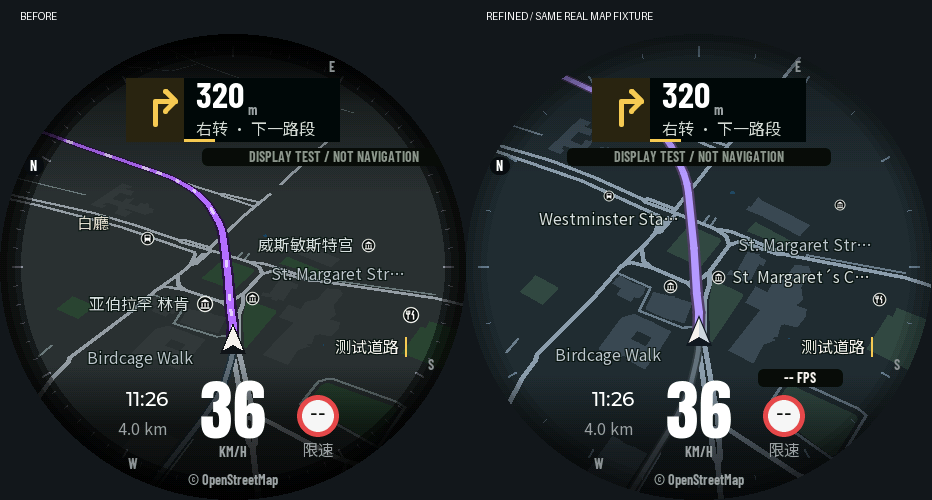
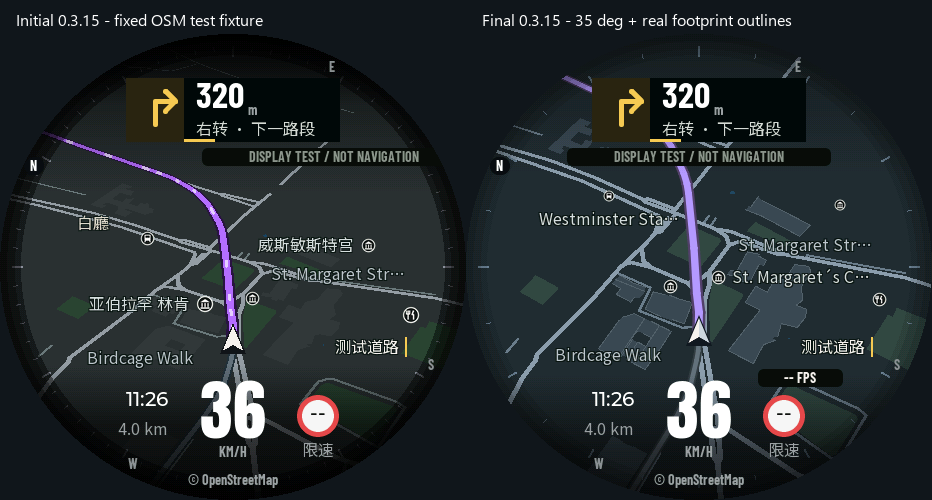
Recover real building outlines and courtyards for the navigation map

Changed region(s): [[0.4979, 0.03, 0.8401, 0.06], [0.0, 0.0, 0.28, 0.06], [0.6845, 0.63, 0.7157, 0.66]]

diff --git a/moto_esp32/components/motonav_graphics/route_map.cpp b/moto_esp32/components/motonav_graphics/route_map.cpp
@@ -2,6 +2,7 @@
 #include "motonav/graphics/map_raster.h"
 #include "motonav/graphics/map_stroke.h"
 #include "motonav/graphics/map_strip_index.h"
+#include "motonav/graphics/building_contours.h"
 #include "round_map_damage.h"
 #include "src/draw/lv_image_decoder_private.h"
 #include "src/draw/lv_draw_private.h"
@@ -44,6 +45,11 @@ struct MapScene {
     uint16_t area_count=0,surface_count=0,edge_count=0;
     uint16_t paint_order[384]{};
     MapStripIndex strips;
+    BuildingContours building_contours;
+    uint64_t feature_version=0;
+    size_t input_feature_count=0;
+    Segment building_edges[256]{};
+    size_t building_edge_count=0;
     size_t feature_count=0;
     bool compass=false;
     size_t road_count = 0, route_count = 0;
@@ -108,6 +114,12 @@ void paint(MapRaster &raster, MapScene &scene, int top, int bottom) {
     const uint64_t begin = scene.clock_us ? scene.clock_us() : 0;
     raster.navigation_style(scene.compass);
     raster.clear(panel_color(Style::Ground));
+    bool contours_painted=false;
+    auto contours=[&](){
+        if(contours_painted)return;
+        for(size_t i=0;i<scene.building_edge_count;i++)line(raster,scene.building_edges[i],1,Style::BuildingEdge,top,bottom);
+        contours_painted=true;
+    };
     // Resolve painter order and bounds once per camera update. Each strip visits
     // the compact list once, instead of scanning all PSRAM geometry six times.
     for(size_t block=0;block<(scene.feature_count+31)/32;block++) {
@@ -119,11 +131,13 @@ void paint(MapRaster &raster, MapScene &scene, int top, int bottom) {
         const unsigned kind=f.kind;
         if(kind>=3)raster.polygon(scene.areas[f.shape],panel_color(kind==4?Style::Water:kind==5?Style::Park:Style::Building));
         else {
+            contours(); // Above every building fill, below every road surface.
             if(kind==2)scene.edges[f.edge].paint(raster,panel_color(Style::RoadEdge));
             scene.surfaces[f.shape].paint(raster,panel_color(kind==2?Style::MajorRoad:kind==1?Style::SecondaryRoad:Style::MinorRoad));
         }
       }
     }
+    contours();
     for (size_t i=0; i<scene.road_count; ++i) {
         line(raster, scene.roads[i], 8, 0x10191e, top, bottom);
         line(raster, scene.roads[i], 4, 0x66757c, top, bottom);
@@ -305,6 +319,10 @@ bool render_route_map(lv_obj_t *view, const MapCamera &camera, const MapGeometry
     if (!scene) return false;
     MapProjection projection(scene->image.header.w, scene->image.header.h, camera);
     if (!projection.valid()) return false;
+    if(!geometry.feature_version||scene->feature_version!=geometry.feature_version||scene->input_feature_count!=geometry.feature_count){
+        scene->building_contours.prepare(geometry.features,geometry.feature_count);
+        scene->feature_version=geometry.feature_version;scene->input_feature_count=geometry.feature_count;
+    }
     scene->road_count = scene->route_count = 0;
     scene->show_position=geometry.show_position;
     scene->position_style=geometry.position_style;
@@ -312,6 +330,14 @@ bool render_route_map(lv_obj_t *view, const MapCamera &camera, const MapGeometry
     scene->area_count=scene->surface_count=scene->edge_count=0;
     scene->feature_count=0;scene->compass=geometry.compass;
     ProjectedPoint a, b;
+    scene->building_edge_count=0;
+    for(size_t i=0;i<scene->building_contours.count()&&scene->building_edge_count<256;i++){
+        const auto edge=scene->building_contours.edge(i);
+        if(!projection.segment(edge.a,edge.b,a,b,2))continue;
+        float dx=b.x-a.x,dy=b.y-a.y;
+        if(dx*dx+dy*dy<36||std::max(a.y,b.y)<140||std::min(a.y,b.y)>345)continue;
+        scene->building_edges[scene->building_edge_count++]=Segment(a,b);
+    }
     for(size_t i=0;i<geometry.feature_count;i++) {
         const auto &f=geometry.features[i];MapScene::Feature next;next.kind=f.kind;
         if(f.kind<3) {

diff --git a/moto_esp32/tests/lvgl_host/preview.cpp b/moto_esp32/tests/lvgl_host/preview.cpp
@@ -253,6 +253,24 @@ static void exercise_route_split(lv_display_t *display,const std::filesystem::pa
     lv_screen_load(previous);lv_obj_delete(screen);
     std::cout<<"PASS: passed/future route rendering, unknown progress and maximum split capacity\n";
 }
+static void exercise_building_edges(lv_display_t *display,const std::filesystem::path &directory) {
+    auto *previous=lv_screen_active(),*screen=lv_obj_create(nullptr);lv_screen_load(screen);
+    auto *map=motonav::create_route_map(screen,466,466);
+    motonav::MapFeature features[]{{3,{0,0},{50,0},{50,50}},{3,{0,0},{50,50},{0,50}}};
+    motonav::MapGeometry geometry{nullptr,0,nullptr,0,false,features,2};geometry.feature_version=1;
+    const motonav::MapCamera camera{0,0,0,1};
+    assert(motonav::render_route_map(map,camera,geometry));save(display,directory/"building-contour.ppm");
+    auto inside=pixels[300*466+259];assert(pixels[301*466+258]==inside); // No tessellation diagonal.
+    auto outline=pixels[300*466+233];assert(outline!=inside);
+    features[0].b.x=features[0].c.x=features[1].b.x=60;geometry.feature_version++;
+    assert(motonav::render_route_map(map,camera,geometry));save(display,directory/"building-contour-updated.ppm");
+    assert(pixels[300*466+283]==inside&&pixels[300*466+293]==outline);
+    geometry.features=nullptr;geometry.feature_count=0;geometry.feature_version++;
+    assert(motonav::render_route_map(map,camera,geometry));save(display,directory/"building-contour-cleared.ppm");
+    assert(pixels[300*466+233]!=outline);
+    lv_screen_load(previous);lv_obj_delete(screen);
+    std::cout<<"PASS: contour cache update, no triangle seams and removed-map cleanup\n";
+}
 int main(int argc, char **argv) {
     if (argc != 2) return 2;
     std::filesystem::path directory(argv[1]); std::filesystem::create_directories(directory);
@@ -327,6 +345,7 @@ int main(int argc, char **argv) {
     exercise_annotations(display,directory);
     exercise_maneuver_ui(display,directory);
     exercise_route_split(display,directory);
+    exercise_building_edges(display,directory);
     auto *navigation_screen = lv_screen_active();
     auto normal_children = lv_obj_get_child_count(lv_screen_active());
     lv_obj_add_event_cb(lv_obj_get_child(lv_screen_active(),0), [](lv_event_t *) { ++rim_draws; }, LV_EVENT_DRAW_MAIN, nullptr);

diff --git a/moto_esp32/components/motonav_graphics/include/motonav/graphics/building_contours.h b/moto_esp32/components/motonav_graphics/include/motonav/graphics/building_contours.h
@@ -1,0 +1,50 @@
+#pragma once
+#include "motonav/graphics/map_feature.h"
+#include <algorithm>
+
+namespace motonav {
+// Recover the supplied footprint boundaries by cancelling oriented shared
+// triangle edges. Winding normalization keeps duplicate/reversed triangles
+// from erasing the outside, and retains courtyard boundaries. No new geometry.
+class BuildingContours {
+public:
+    static constexpr size_t Capacity=384*3;
+    bool prepare(const MapFeature *features,size_t count) {
+        if(count>384||(count&&!features))return false;
+        for(size_t i=0;i<count;i++)if(features[i].kind==3)
+            for(auto p:{features[i].a,features[i].b,features[i].c})
+                if(std::abs(int(p.x))>2048||std::abs(int(p.y))>2048)return false;
+        size_t used=0;
+        auto point=[](MapPoint p){return (uint32_t(int(p.x)+2048)<<13)|uint32_t(int(p.y)+2048);};
+        auto edge=[&](MapPoint a,MapPoint b){
+            uint32_t x=point(a),y=point(b);if(x==y)return;
+            // 13 bits per coordinate; one spare low bit records orientation.
+            keys_[used++]=((uint64_t(std::min(x,y))<<26)|std::max(x,y))<<1|(x<y?1u:0u);
+        };
+        for(size_t i=0;i<count;i++)if(features[i].kind==3) {
+            auto a=features[i].a,b=features[i].b,c=features[i].c;
+            int32_t area=(int32_t(b.x)-a.x)*(int32_t(c.y)-a.y)-(int32_t(b.y)-a.y)*(int32_t(c.x)-a.x);
+            if(!area)continue;
+            if(area<0)std::swap(b,c);
+            edge(a,b);edge(b,c);edge(c,a);
+        }
+        std::sort(keys_,keys_+used);count_=0;
+        for(size_t i=0;i<used;) {
+            const auto key=keys_[i]>>1;unsigned orientations=0;
+            do{orientations|=(keys_[i]&1)?1u:2u;i++;}while(i<used&&(keys_[i]>>1)==key);
+            if(orientations!=3)keys_[count_++]=key;
+        }
+        return true;
+    }
+    size_t count()const{return count_;}
+    MapSegment edge(size_t index)const {
+        if(index>=count_)return {};
+        auto point=[](uint32_t value){return MapPoint{static_cast<int16_t>(int(value>>13)-2048),
+            static_cast<int16_t>(int(value&8191)-2048)};};
+        return {point(static_cast<uint32_t>(keys_[index]>>26)),point(static_cast<uint32_t>(keys_[index]&0x3ffffff))};
+    }
+private:
+    uint64_t keys_[Capacity]{};
+    size_t count_=0;
+};
+}

diff --git a/moto_esp32/tests/host/building_contours_test.cpp b/moto_esp32/tests/host/building_contours_test.cpp
@@ -1,0 +1,32 @@
+#include "motonav/graphics/building_contours.h"
+#include <cassert>
+#include <iostream>
+using namespace motonav;
+int main(){
+    BuildingContours contours;
+    MapFeature square[]{{3,{0,0},{100,0},{100,100}},{3,{0,0},{0,100},{100,100}}};
+    assert(contours.prepare(square,2)&&contours.count()==4);
+    for(size_t i=0;i<contours.count();i++){auto e=contours.edge(i);assert(e.a.x==e.b.x||e.a.y==e.b.y);}
+    MapFeature duplicates[]{square[0],square[1],square[0]};
+    assert(contours.prepare(duplicates,3)&&contours.count()==4);
+    const MapPoint a{0,0},b{120,0},c{120,120},d{0,120};
+    const MapPoint e{40,40},f{80,40},g{80,80},h{40,80};
+    MapFeature courtyard[]{{3,a,b,f},{3,a,f,e},{3,b,c,g},{3,b,g,f},
+        {3,c,d,h},{3,c,h,g},{3,d,a,e},{3,d,e,h}};
+    assert(contours.prepare(courtyard,8)&&contours.count()==8);
+    unsigned inner=0;for(size_t i=0;i<contours.count();i++){
+        auto edge=contours.edge(i);if(edge.a.x>=40&&edge.a.x<=80&&edge.a.y>=40&&edge.a.y<=80)inner++;
+    }assert(inner==4);
+    MapFeature mixed[]{{4,{0,0},{10,0},{10,10}},{3,{0,0},{10,10},{20,20}}};
+    assert(contours.prepare(mixed,2)&&!contours.count());
+    MapFeature maximum[384];
+    for(int i=0;i<384;i++){
+        int16_t x=static_cast<int16_t>(i%24*70-1000),y=static_cast<int16_t>(i/24*100-750);
+        maximum[i]={3,{x,y},{static_cast<int16_t>(x+20),y},{x,static_cast<int16_t>(y+20)}};
+    }
+    assert(contours.prepare(maximum,384)&&contours.count()==BuildingContours::Capacity);
+    assert(!contours.prepare(maximum,385)&&contours.count()==BuildingContours::Capacity);
+    maximum[0].a.x=3000;assert(!contours.prepare(maximum,384));
+    assert(contours.prepare(nullptr,0)&&!contours.count());
+    std::cout<<"PASS: real footprint boundaries, shared diagonals, duplicates, winding, courtyards and limits\n";
+}

diff --git a/moto_esp32/tests/run_host_tests.py b/moto_esp32/tests/run_host_tests.py
@@ -74,7 +74,7 @@ with tempfile.TemporaryDirectory(prefix='motonav-firmware-tests-') as directory:
         'display_runtime_test': ['components/motonav_display/display.cpp', 'components/motonav_display/pixel_pack.cpp',
                                  'main/app/device_supervisor.cpp'],
     }
-    for name in ['map_camera_motion_test', 'navigation_presentation_test', 'map_strip_index_test', 'map_labels_test', 'map_position_test', 'navigation_details_test', 'basemap_protocol_test', 'navigation_protocol_test', 'route_protocol_test', 'ble_channel_test', 'display_model_test', 'map_projection_test', 'map_raster_test', 'map_stroke_test',
+    for name in ['building_contours_test', 'map_camera_motion_test', 'navigation_presentation_test', 'map_strip_index_test', 'map_labels_test', 'map_position_test', 'navigation_details_test', 'basemap_protocol_test', 'navigation_protocol_test', 'route_protocol_test', 'ble_channel_test', 'display_model_test', 'map_projection_test', 'map_raster_test', 'map_stroke_test',
                  'navigation_session_test', 'display_qspi_test', 'pixel_pack_test',
                  'navigation_service_test', 'notification_queue_test', 'ble_transport_test', 'display_runtime_test', 'diagnostic_protocol_test', 'diagnostic_bridge_test']:
         executable = output / (name + ('.exe' if os.name == 'nt' else ''))

diff --git a/moto_esp32/components/motonav_graphics/include/motonav/graphics/map_raster.h b/moto_esp32/components/motonav_graphics/include/motonav/graphics/map_raster.h
@@ -204,9 +204,9 @@ private:
         if(cached_shades_&&cached_color_==color)return {color,cached_shades_};
         constexpr auto palette=NavigationMapStyle::Palette;
         static constexpr auto table=[] {
-            std::array<std::array<uint32_t,514>,18> result{};
+            std::array<std::array<uint32_t,514>,NavigationMapStyle::Palette.size()> result{};
             constexpr auto rgb=NavigationMapStyle::Palette;
-            for(unsigned c=0;c<18;c++)for(unsigned light=0;light<=256;light++)for(unsigned row=0;row<2;row++){
+            for(unsigned c=0;c<rgb.size();c++)for(unsigned light=0;light<=256;light++)for(unsigned row=0;row<2;row++){
                 const unsigned packed=((rgb[c]>>8)&0xf800)|((rgb[c]>>5)&0x7e0)|((rgb[c]>>3)&31);
                 uint32_t pair=0;
                 for(unsigned column=0;column<2;column++){
@@ -220,7 +220,7 @@ private:
             }
             return result;
         }();
-        for(unsigned i=0;i<18;i++){
+        for(unsigned i=0;i<palette.size();i++){
             const auto rgb565=rgb(palette[i]);
             if(color==static_cast<uint16_t>((rgb565>>8)|(rgb565<<8))){cached_color_=color;cached_shades_=table[i].data();return {color,cached_shades_};}
         }

diff --git a/moto_esp32/components/motonav_graphics/include/motonav/graphics/map_style.h b/moto_esp32/components/motonav_graphics/include/motonav/graphics/map_style.h
@@ -10,7 +10,8 @@ struct NavigationMapStyle {
     static constexpr uint32_t RoadEdge=0x33444f,MajorRoad=0xb7c1c8,SecondaryRoad=0x8d9ea8,MinorRoad=0x687d88;
     static constexpr uint32_t Route=0xb79aff,RouteEdge=0x51416c,Passed=0x61727c,PassedEdge=0x303d46;
     static constexpr uint32_t PlayerEdge=0x101a22,Player=0xf2f3e9,PlayerSide=0xc8d5df,Compass=0x6e8390;
-    static constexpr std::array<uint32_t,18> Palette{Ground,Water,Park,Building,RoadEdge,MajorRoad,
-        SecondaryRoad,MinorRoad,0x10191e,0x66757c,Route,RouteEdge,PlayerEdge,Player,PlayerSide,Compass,Passed,PassedEdge};
+    static constexpr uint32_t BuildingEdge=0x53616b;
+    static constexpr std::array<uint32_t,19> Palette{Ground,Water,Park,Building,RoadEdge,MajorRoad,
+        SecondaryRoad,MinorRoad,0x10191e,0x66757c,Route,RouteEdge,PlayerEdge,Player,PlayerSide,Compass,Passed,PassedEdge,BuildingEdge};
 };
 }

diff --git a/moto_esp32/components/motonav_graphics/include/motonav/graphics/route_map.h b/moto_esp32/components/motonav_graphics/include/motonav/graphics/route_map.h
@@ -1,9 +1,9 @@
 #pragma once
 #include "motonav/graphics/map_projection.h"
+#include "motonav/graphics/map_feature.h"
 #include "lvgl.h"
 
 namespace motonav {
-struct MapFeature { uint8_t kind;MapPoint a,b,c; };
 struct MapGeometry {
     const MapPoint *route;
     size_t route_count;
@@ -17,6 +17,9 @@ struct MapGeometry {
     // Optional visual split: segment index + fraction, -1 means unknown.
     // The caller owns position validity; this does not change guidance/progress.
     float route_progress=-1;
+    // Optional stable content key for features. Change on ANY geometry change;
+    // zero rebuilds the derived contour cache on every call. No pointer retained.
+    uint64_t feature_version=0;
 };
 // All functions below require the LVGL thread or the caller's display lock.
 // Image owns a bounded scene; fallback decoding lazily allocates a strip buffer.

diff --git a/moto_esp32/tests/device/motonav_bench/map_fixture.cpp b/moto_esp32/tests/device/motonav_bench/map_fixture.cpp
@@ -29,7 +29,7 @@ MapCamera render_map_benchmark(lv_obj_t *view, uint64_t elapsed_ms) {
     static const RouteTrace trace=[] {RouteTrace value;value.prepare(RealMapRoute,sizeof(RealMapRoute)/sizeof(RealMapRoute[0]));return value;}();
     auto progress=trace.locate(camera.x,camera.y);
     render_route_map(view,camera,{RealMapRoute,sizeof(RealMapRoute)/sizeof(RealMapRoute[0]),nullptr,0,true,
-        RealMapFeatures,sizeof(RealMapFeatures)/sizeof(RealMapFeatures[0]),true,0,progress.valid?progress.index:-1});
+        RealMapFeatures,sizeof(RealMapFeatures)/sizeof(RealMapFeatures[0]),true,0,progress.valid?progress.index:-1,1});
     return camera;
 }
 } // namespace motonav

diff --git a/moto_esp32/components/motonav_ui/navigation_ui.cpp b/moto_esp32/components/motonav_ui/navigation_ui.cpp
@@ -133,7 +133,8 @@ void route_map(const ScreenSnapshot &state,ManeuverEmphasis emphasis) {
     camera=next;
     if(changed) {
         if(!render_route_map(map_view,camera,{points,r.count,nullptr,0,marker!=0,features,basemap.count,r.local_view,
-                static_cast<uint8_t>(live?0:historical?3:r.position_quality),progress.valid?progress.index:-1})) {
+                static_cast<uint8_t>(live?0:historical?3:r.position_quality),progress.valid?progress.index:-1,
+                (uint64_t(r.revision)<<32)|basemap.generation})) {
             lv_obj_delete(map_view); map_view=nullptr;annotations={}; map_failed=true; layout(false);
         }
     }

diff --git a/moto_esp32/components/motonav_graphics/include/motonav/graphics/map_feature.h b/moto_esp32/components/motonav_graphics/include/motonav/graphics/map_feature.h
@@ -1,0 +1,5 @@
+#pragma once
+#include "motonav/graphics/map_projection.h"
+namespace motonav {
+struct MapFeature { uint8_t kind;MapPoint a,b,c; };
+}

diff --git a/protocol/navigation-experience-0.3.15-validation.md b/protocol/navigation-experience-0.3.15-validation.md
@@ -60,7 +60,7 @@ phone's older 50-degree viewport plus its 120 m coverage margin.
 
 ## Validation
 
-- 23 host C++ programs and dependency checks pass. Added coverage includes
+- 24 host C++ programs and dependency checks pass. Added coverage includes
   independent motion channels, route bends, close parallel legs/crossings,
   clock wrapping, invalid/expired guidance, camera coverage and strip masks.
 - Analytic fractional-rectangle tests verify edge color blending. Antialiased
@@ -78,27 +78,73 @@ geographic fixture, draw-task profiling disabled. Each timed interval follows
 a 2.5 s warm-up. The final perspective/style differs, so this is not an isolated
 microbenchmark of the strip index.
 
-| Measurement | 0.3.14 | First 0.3.15 | Final refined 0.3.15 |
-| --- | ---: | ---: | ---: |
-| Minimum / mean sampled FPS | 21 / 23 | 21 / 24 | 19 / 23 |
-| Timed interval (ms) | 40528 | 40533 | 40544 |
-| Prepare mean (us) | 5147 | 5488 | 5017 |
-| Geometry / annotations / HUD (us) | 4402 / 470 / 274 | 4660 / 533 / 294 | 4139 / 570 / 307 |
-| Render mean (us) | 34757 | 33509 | 35164 |
-| Overlapping DMA mean (us) | 19617 | 19616 | 19629 |
+| Measurement | 0.3.14 | First 0.3.15 | Refined 35-degree view | Final with building contours |
+| --- | ---: | ---: | ---: | ---: |
+| Minimum / mean sampled FPS | 21 / 23 | 21 / 24 | 19 / 23 | 19 / 22 |
+| Timed interval (ms) | 40528 | 40533 | 40544 | 40552 |
+| Prepare mean (us) | 5147 | 5488 | 5017 | 5619 |
+| Geometry / annotations / HUD (us) | 4402 / 470 / 274 | 4660 / 533 / 294 | 4139 / 570 / 307 | 4729 / 581 / 308 |
+| Render mean (us) | 34757 | 33509 | 35164 | 35813 |
+| Overlapping DMA mean (us) | 19617 | 19616 | 19629 | 19631 |
 
 The final style trades the first iteration's small FPS gain for clearer map
 presentation and edge smoothing. **The complex-map 40 FPS target remains unmet.**
 DMA overlaps rendering and must not be added to render time. The subsequent
 held demo changes annotation budgets, so its samples are not the fixed-layout
-timed benchmark. Main-task minimum stack improved from 536 to 3456 bytes after
-deferring the optional fixture start; that was a test-startup change.
+timed benchmark. Main-task minimum stack improved from 536 to 3392 bytes in
+the final contour run after deferring the optional fixture start; that was a
+test-startup change. The final 100-second capture contains no panic, assertion
+or watchdog report. It is a fixed-map rendering test, not a road test or a
+long-duration BLE/GPS concurrency guarantee.
 
 Logs and native previews are retained in `moto_esp32/dist/`; preview images are
 native LVGL renders of a fixed London OSM fixture, not photographs, phone GPS
 captures or invented map geometry. Map data: © OpenStreetMap contributors,
 ODbL; fixture provenance remains in `tests/generate_real_map_fixture.py`.
 
-Final refined visual acceptance and normal-image boot/phone verification are
-recorded separately after the held test. A build or screenshot does not prove
-live phone-navigation acceptance or full simulator parity.
+The user confirmed that the 35-degree view, continuous route and revised map
+colors were a clear improvement, and requested more real map detail. An
+additional bounded `BuildingContours` layer extracts supplied building outer
+and courtyard boundaries by cancelling opposed shared triangle edges. It
+normalizes winding, tolerates duplicate triangles and skips degenerate faces.
+Up to 1152 world edges are processed on a map-content change; at most 256
+visible edges of at least 6 projected pixels receive outlines. Building fills
+are retained regardless of this contour detail budget. Input `feature_version`
+is an opaque caller-owned content key; zero disables cache reuse. Prepared
+outlines sit above building fills and below roads, route, position and labels.
+
+Host tests cover shared diagonals, reversed/duplicate triangles, courtyard
+holes, the maximum input and cache replacement/clearing. Native comparison
+previews are in `assets/navigation-0.3.15/` (the comparison is cropped to the
+physical round-screen outline). These contours recover existing transmitted
+detail; they do not add missing provider coverage or 3D building heights.
+
+## Production delivery
+
+The final RGB565 production image was written to COM21 at application offset
+`0x10000` with esptool hash verification. Bootloader, partition table and NVS
+were not rewritten. The 35-second boot capture confirms firmware 0.3.15,
+`device_tests=0`, `ble_diagnostics=1`, NAV3/NAV4 and DIAG1 handle 31. While
+advertising without a phone, minimum main-task stack was 3416 bytes, minimum
+BLE-task stack was 5548 bytes and reported free internal heap was 26547 bytes.
+No panic, assertion or watchdog was reported. These idle figures are not
+navigation-load memory guarantees.
+
+Production binary: 4165440 bytes; SHA-256
[1 lines of base64/hex data omitted]
+The final source export and binary are in `moto_esp32/dist/release-0.3.15-final/`;
+its manifest records source revision and artifact hashes. It supersedes the
+earlier 0.3.15 package that did not include building contours.
+
+Relevant local evidence:
+
+- `dist/COM21-0.3.15-detail-bench.log` (100 seconds, final contour fixture).
+- `dist/COM21-0.3.15-normal-final.log` (35 seconds, production startup).
+- `dist/flash-0.3.15-normal-final.log` (application-only flash and verification).
+- `dist/host-tests-0.3.15.log` and `dist/ctest-0.3.15.log` (24 host programs and
+  12 LVGL checks).
+
+The user accepted the 35-degree test's overall improvement. The final contour
+layer passed native-render and device checks; production phone navigation has
+not yet been re-observed in this run. Neither a build nor a screenshot proves
+full simulator parity or live phone-navigation acceptance.
